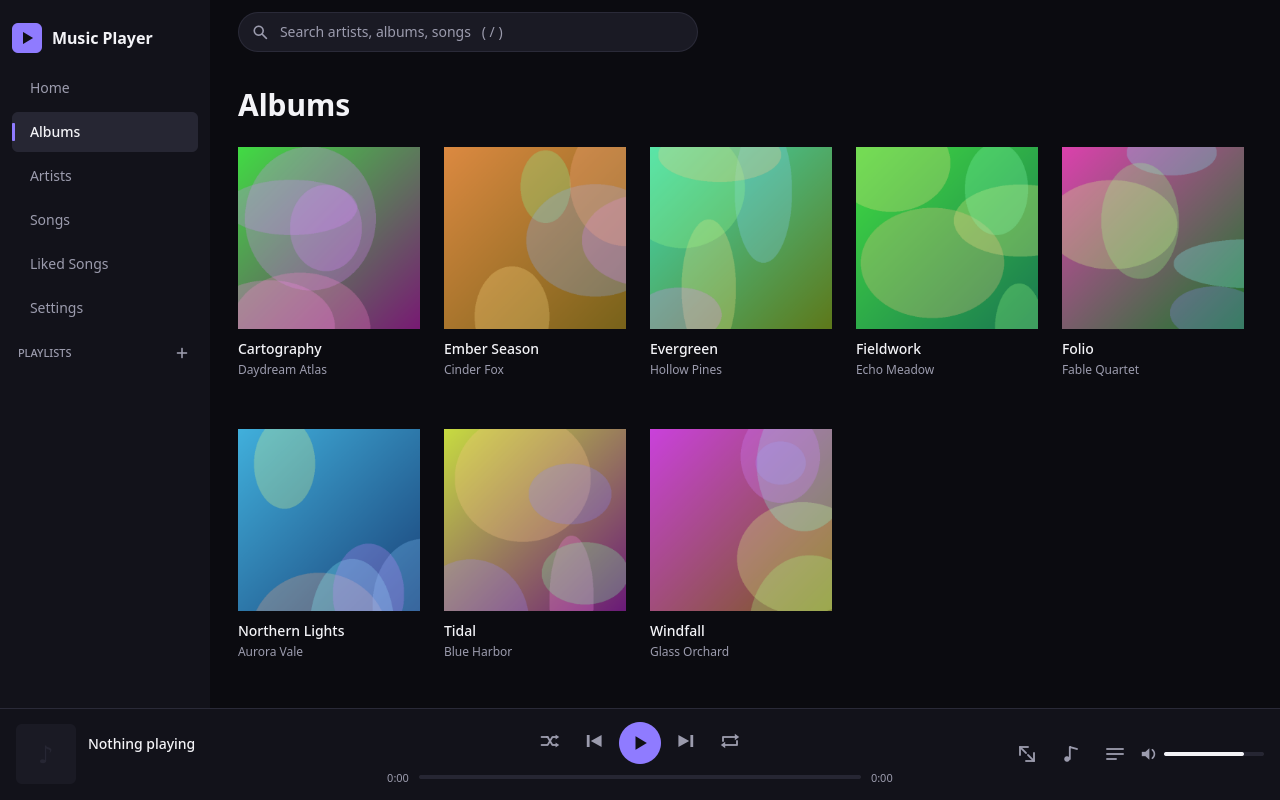
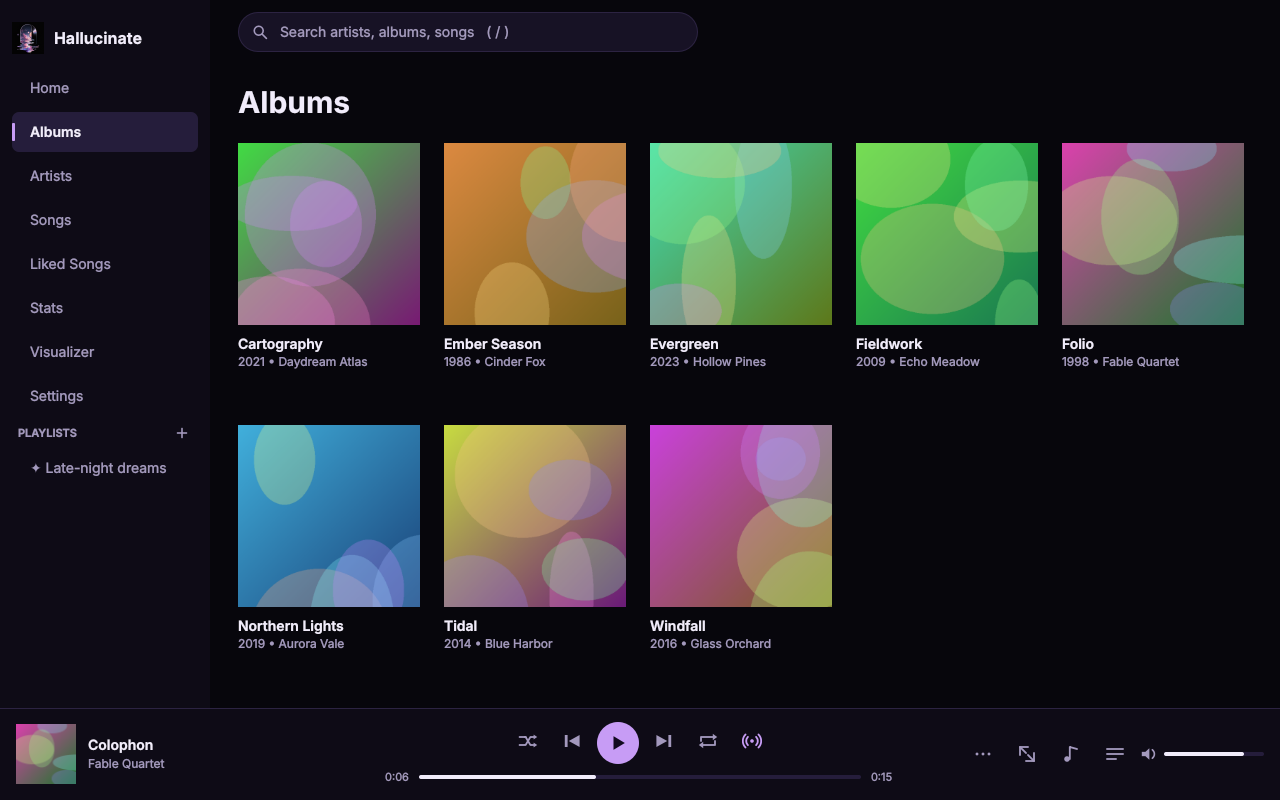
Refresh the README, screenshots and social preview; add fixed-name release downloads
- README: a clear tagline, a latest-release badge, a platforms badge
  that matches the repo description (Linux, Windows, macOS), download
  buttons per OS near the top, a hero screenshot and a Highlights list
  ahead of the full feature list.
- Release: also attach Hallucinate-x86_64.AppImage,
  Hallucinate-windows-x64-setup.exe and Hallucinate-macos-arm64.zip, so
  releases/latest/download/... links keep working across versions.
- Screenshots: the script now seeds some listening history, a liked set
  and a smart playlist, shows a track with radio on, and captures the
  queue, the smart playlist and its rule editor. It writes the names the
  README uses and builds the theme GIF; unused screenshots are removed.
- A new 1280x640 social preview with the logo, tagline and a screenshot.

Claude-Session: https://claude.ai/code/session_01QbqG2GF1acpkJMKypb9Z4X

diff --git a/scripts/screenshots.py b/scripts/screenshots.py
@@ -11,10 +11,12 @@ import sys
 import tempfile
 from pathlib import Path
 
-from mutagen.id3 import APIC, ID3, TALB, TIT2, TPE1, TPE2, TRCK
+from mutagen.id3 import APIC, ID3, TALB, TCON, TDRC, TIT2, TPE1, TPE2, TRCK
 from PySide6.QtCore import Q_ARG, QBuffer, QByteArray, QIODevice, QMetaObject, Qt, QTimer
 from PySide6.QtGui import QBrush, QColor, QImage, QLinearGradient, QPainter
 
+GENRES = ["Dream Pop", "Indie Folk", "Synthwave", "Ambient", "Folk", "Chamber Jazz", "Indie Folk", "Post-Rock"]
+YEARS = [2019, 2014, 1986, 2021, 2009, 1998, 2016, 2023]
 ALBUMS = [
     ("Aurora Vale", "Northern Lights", ["Echoes of Dawn", "Midnight Rain", "Glass Horizon", "Polar Drift"]),
     ("Blue Harbor", "Tidal", ["Salt & Rope", "Lantern Bay", "Low Tide", "Harbor Lights"]),
@@ -62,8 +64,23 @@ def build_library(root: Path):
             t.add(TPE2(encoding=3, text=artist))
             t.add(TALB(encoding=3, text=album))
             t.add(TRCK(encoding=3, text=f"{i}/{len(tracks)}"))
+            t.add(TCON(encoding=3, text=GENRES[n]))
+            t.add(TDRC(encoding=3, text=str(YEARS[n])))
             t.add(APIC(encoding=3, mime="image/png", type=3, desc="", data=art))
             t.save(f)
+
+
+def make_gif(out, frames, target):
+    """Theme cross-section for the README (needs Pillow; skipped without it)."""
+    try:
+        from PIL import Image
+    except ImportError:
+        print("Pillow not installed; skipping", target.name)
+        return
+    images = [Image.open(out / f).convert("RGB").resize((800, 500), Image.LANCZOS) for f in frames]
+    images[0].save(target, save_all=True, append_images=images[1:], duration=1400, loop=0, optimize=True)
+    for f in frames:  # the GIF replaces the individual theme frames
+        (out / f).unlink()
 
 
 def main():
@@ -104,28 +121,77 @@ def main():
             return super().exec()
 
         def run_shots(self):
-            win = next(w for w in self.topLevelWindows() if w.title().startswith("Hallucinate") or w.title())
+            from PySide6.QtQml import QQmlEngine
+
+            win = next(w for w in self.topLevelWindows() if w.title())
             win.resize(1280, 800)
-            steps = [("home", "dark-home"), ("albums", "dark-albums"), ("songs", "dark-songs"), ("settings", "dark-settings")]
-            todo = []
+            ctx = QQmlEngine.contextForObject(win)
+            library, player, user_lib = (ctx.contextProperty(n) for n in ("library", "player", "userLib"))
             themes = [t.strip() for t in args.themes.split(",") if t.strip()]
-            for page, name in steps:
-                todo.append(lambda p=page: QMetaObject.invokeMethod(win, "go", Q_ARG("QVariant", p)))
-                todo.append(lambda n=name: win.grabWindow().save(str(out / f"{n}{suffix}.png")))
-            todo.append(lambda: QMetaObject.invokeMethod(win, "go", Q_ARG("QVariant", "home")))
-            todo.append(lambda: win.setProperty("queueOpen", True))
-            todo.append(lambda: win.grabWindow().save(str(out / f"queue{suffix}.png")))
-            todo.append(lambda: win.setProperty("queueOpen", False))
-            for th in themes[1:]:
+            todo = []
+
+            def shot(name):
+                return lambda: win.grabWindow().save(str(out / f"{name}{suffix}.png"))
+
+            def go(page):
+                return lambda: QMetaObject.invokeMethod(win, "go", Q_ARG("QVariant", page))
+
+            def seed():
+                # A little listening history so Home, Stats and radio have something to show.
+                tracks = library.allTracks()
+                rnd = random.Random(7)
+                for t in tracks:
+                    for _ in range(rnd.choice([0, 0, 1, 2, 4])):
+                        user_lib.recordPlay({"path": t["path"]})
+                for t in rnd.sample(tracks, 8):
+                    user_lib.toggleLike(t["path"])
+                state["smart"] = user_lib.createSmartPlaylist("Late-night dreams", (
+                    '{"match": "any", "rules": [{"field": "genre", "op": "contains", "value": "dream"},'
+                    ' {"field": "genre", "op": "contains", "value": "ambient"}], "sort": "year_desc", "limit": 0}'))
+                user_lib.refresh()
+
+            def play():
+                tracks = library.allTracks()
+                player.setRadio(True)
+                player.playList(tracks[4:6], 0)
+
+            def pause():
+                player.pause()
+                player.seek(int(player.duration * 0.4))
+
+            def open_smart():
+                QMetaObject.invokeMethod(win, "openSmartPlaylist", Q_ARG("QVariant", state["smart"]),
+                                         Q_ARG("QVariant", "Late-night dreams"))
+
+            def editor(method, *values):
+                def call():
+                    from PySide6.QtCore import QObject
+                    smart_editor = win.findChild(QObject, "smartEditor")
+                    QMetaObject.invokeMethod(smart_editor, method,
+                                             *[Q_ARG("QVariant", v() if callable(v) else v) for v in values])
+                return call
+
+            state = {}
+            todo += [seed, play, pause]
+            for page in ("home", "albums", "songs", "settings"):
+                todo += [go(page), shot(page)]
+            todo += [go("home"), lambda: win.setProperty("queueOpen", True), shot("queue"),
+                     lambda: win.setProperty("queueOpen", False)]
+            todo += [open_smart, shot("smart-playlist"),
+                     editor("openEdit", lambda: state["smart"], "Late-night dreams")]
+            todo += [shot("smart-editor"), editor("reject"), go("home")]
+            for th in themes:
                 slug = th.lower().replace(" ", "-")
-                todo.append(lambda t=th: managers[0].selectTheme(t))
-                todo.append(lambda s_=slug: win.grabWindow().save(str(out / f"{s_}-home{suffix}.png")))
+                todo += [lambda t=th: managers[0].selectTheme(t), shot(f"theme-{slug}")]
             todo.append(lambda: managers[0].selectTheme(themes[0]))
+            todo.append(lambda: player.setRadio(False))
+            todo.append(lambda: make_gif(out, [f"theme-{t.lower().replace(' ', '-')}{suffix}.png" for t in themes],
+                                         out / f"themes{suffix}.gif"))
 
             def next_step():
                 if todo:
                     todo.pop(0)()
-                    QTimer.singleShot(600, next_step)
+                    QTimer.singleShot(900, next_step)
                 else:
                     self.quit()
 

diff --git a/README.md b/README.md
@@ -1,30 +1,58 @@
 <p align="center">
-  <img src="assets/logo/hallucinate-logo.png" width="420" alt="Hallucinate — melting vinyl portal logo">
+  <img src="assets/logo/hallucinate-logo.png" width="380" alt="Hallucinate — melting vinyl portal logo">
 </p>
 
 <h1 align="center">Hallucinate</h1>
 
-[![CI](https://github.com/bulmaspanties/Hallucinate/actions/workflows/ci.yml/badge.svg)](https://github.com/bulmaspanties/Hallucinate/actions/workflows/ci.yml)
-[![License: MIT](https://img.shields.io/badge/license-MIT-blue.svg)](LICENSE)
-![Python 3.10+](https://img.shields.io/badge/python-3.10%2B-blue.svg)
-![Platform: Linux first](https://img.shields.io/badge/platform-Linux-lightgrey.svg)
+<p align="center">
+  <b>A fast desktop music player for the music you own.</b><br>
+  Type to find any artist, album or song, click to play. Gapless, themeable, and private.
+</p>
 
-A fast, modern desktop music player (PySide6 + QML) for Linux (other
-OSes secondary) with a Spotify-style search-and-browse experience. Not
-playlist-driven: type to find, click to play.
+<p align="center">
+  <a href="https://github.com/bulmaspanties/Hallucinate/releases/latest"><img src="https://img.shields.io/github/v/release/bulmaspanties/Hallucinate?label=latest&color=c79cf5" alt="Latest release"></a>
+  <a href="https://github.com/bulmaspanties/Hallucinate/actions/workflows/ci.yml"><img src="https://github.com/bulmaspanties/Hallucinate/actions/workflows/ci.yml/badge.svg" alt="CI"></a>
+  <img src="https://img.shields.io/badge/platforms-Linux%20%7C%20Windows%20%7C%20macOS-6f5aa8" alt="Linux, Windows and macOS">
+  <a href="LICENSE"><img src="https://img.shields.io/badge/license-MIT-blue.svg" alt="MIT license"></a>
+</p>
+
+<h3 align="center">
+  <a href="https://github.com/bulmaspanties/Hallucinate/releases/latest/download/Hallucinate-windows-x64-setup.exe">⬇ Windows</a> &nbsp;·&nbsp;
+  <a href="https://github.com/bulmaspanties/Hallucinate/releases/latest/download/Hallucinate-x86_64.AppImage">⬇ Linux (AppImage)</a> &nbsp;·&nbsp;
+  <a href="https://github.com/bulmaspanties/Hallucinate/releases/latest/download/Hallucinate-macos-arm64.zip">⬇ macOS (Apple silicon)</a>
+</h3>
+<p align="center">
+  Flatpak, Arch (AUR) and pip: see <a href="#install">Install</a> · <a href="https://github.com/bulmaspanties/Hallucinate/releases">all releases</a> · <a href="CHANGELOG.md">what's new</a>
+</p>
+
+<p align="center">
+  <img src="docs/screenshots/home.png" width="860" alt="Hallucinate home screen with albums, recently played and the now-playing bar">
+</p>
+
+## Highlights
+- **Instant search and browsing.** Your whole library, grouped into artists, albums and songs as you type, even with 50,000 tracks.
+- **Plays everything well.** FLAC, MP3, AAC/ALAC, Ogg, Opus, WAV, WavPack, AIFF and more, with true gapless playback, crossfade, ReplayGain and a 10-band equalizer.
+- **Radio mode.** When the queue runs out, similar songs from your own library keep playing, chosen from your listening history, artists, genres and years.
+- **Smart playlists.** Playlists that update themselves from rules, like "liked songs I haven't played in 60 days" or "jazz before 1970".
+- **Feels at home on your desktop.** Media keys and system media controls on Linux (MPRIS) and Windows, a tray icon, a mini player, and an output device picker.
+- **Yours to style.** Live-switchable themes (Catppuccin, Nord, Gruvbox, Tokyo Night, Dracula and more), custom themes, and an album-art accent.
+- **Extras.** Lyrics with synced highlighting, a tag editor and cover art lookup, listening stats, a spectrum visualizer, and optional Last.fm, ListenBrainz and Discord.
+- **No account, no cloud.** Your library, playlists and stats stay on your computer. Scrobbling and Discord are opt-in, cover art is fetched only when you ask, and online lyrics lookup can be turned off.
 
 ## Screenshots
 ![Themes](docs/screenshots/themes.gif)
 
-| Home | Albums |
+| Queue with radio mode | Smart playlist rules |
 |---|---|
-| ![Home](docs/screenshots/home.png) | ![Albums](docs/screenshots/albums.png) |
-| Songs | Settings |
-| ![Songs](docs/screenshots/songs.png) | ![Settings](docs/screenshots/settings.png) |
+| ![Queue with radio mode](docs/screenshots/queue.png) | ![Smart playlist editor](docs/screenshots/smart-editor.png) |
+| Albums | Songs |
+| ![Albums](docs/screenshots/albums.png) | ![Songs](docs/screenshots/songs.png) |
+| Smart playlist | Settings |
+| ![Smart playlist](docs/screenshots/smart-playlist.png) | ![Settings](docs/screenshots/settings.png) |
 
 _Screenshots are rendered offscreen from a synthetic library: `python scripts/screenshots.py docs/screenshots [--scale 2]`._
 
-## Features
+## All features
 - Scans folders (mutagen tags + embedded/folder cover art) into SQLite with FTS5 instant search; incremental rescans (mtime/size), background scanning, file watching, and removal of moved/deleted paths.
 - Formats: FLAC, MP3, OGG/Vorbis, Opus, WAV, AAC/M4A, ALAC, WMA, APE, WavPack, AIFF and more (anything Qt's FFmpeg backend decodes). WAV/AIFF RIFF/FORM text tags are read; missing tags fall back to the filename and unknown values.
 - Global search grouped into Artists / Albums / Songs; Home, Albums, Artists, Songs browse views; album and artist pages; editable queue; shuffle/repeat; seek; volume. Queue, current position, shuffle, repeat, and volume are restored after restart; missing queue files are discarded.
@@ -58,12 +86,12 @@ cd packaging/aur/hallucinate && makepkg -si       # or packaging/aur/hallucinate
 Maintainer and submission notes: [packaging/aur/README.md](packaging/aur/README.md).
 
 ### Windows
-Download `hallucinate-*-windows-x64-setup.exe` (installer) or `hallucinate-*-windows-x64.zip` (portable; run `Hallucinate\Hallucinate.exe`) from [Releases](https://github.com/bulmaspanties/Hallucinate/releases). Built with PyInstaller (`packaging/windows/build.ps1`). Unsigned, so SmartScreen may warn. MPRIS is Linux-only; Last.fm credentials use Windows Credential Manager; data lives in `%APPDATA%\hallucinate`.
+Download the [installer](https://github.com/bulmaspanties/Hallucinate/releases/latest/download/Hallucinate-windows-x64-setup.exe), or the portable `hallucinate-*-windows-x64.zip` (run `Hallucinate\Hallucinate.exe`) from [Releases](https://github.com/bulmaspanties/Hallucinate/releases). Windows 10 or 11; media keys and the system media overlay work out of the box. Built with PyInstaller (`packaging/windows/build.ps1`). Unsigned, so SmartScreen may warn ("More info" → "Run anyway"). Last.fm credentials use Windows Credential Manager; data lives in `%APPDATA%\hallucinate`.
 
 ### AppImage (any x86_64 Linux)
-Download `hallucinate-*-x86_64.AppImage` from the [Releases](https://github.com/bulmaspanties/Hallucinate/releases) page:
+Download the [AppImage](https://github.com/bulmaspanties/Hallucinate/releases/latest/download/Hallucinate-x86_64.AppImage), then:
 ```sh
-chmod +x hallucinate-*.AppImage && ./hallucinate-*.AppImage
+chmod +x Hallucinate-x86_64.AppImage && ./Hallucinate-x86_64.AppImage
 ```
 Bundles Python, PySide6 and the Qt Multimedia FFmpeg backend. Build it yourself with `packaging/appimage/build.sh`.
 
@@ -82,7 +110,7 @@ to grant access to other music directories. Flathub submission steps:
 
 ### macOS
 The release workflow builds a self-contained `.app` zip for the runner's native
-architecture. Download `hallucinate-*-macos-*.zip` from [Releases](https://github.com/bulmaspanties/Hallucinate/releases),
+architecture (Apple silicon). Download the [macOS zip](https://github.com/bulmaspanties/Hallucinate/releases/latest/download/Hallucinate-macos-arm64.zip),
 unzip it, and move `Hallucinate.app` to Applications. The build is unsigned and
 not notarized, so Gatekeeper may require explicit approval. Build locally on a
 Mac with `packaging/macos/build.sh`.
